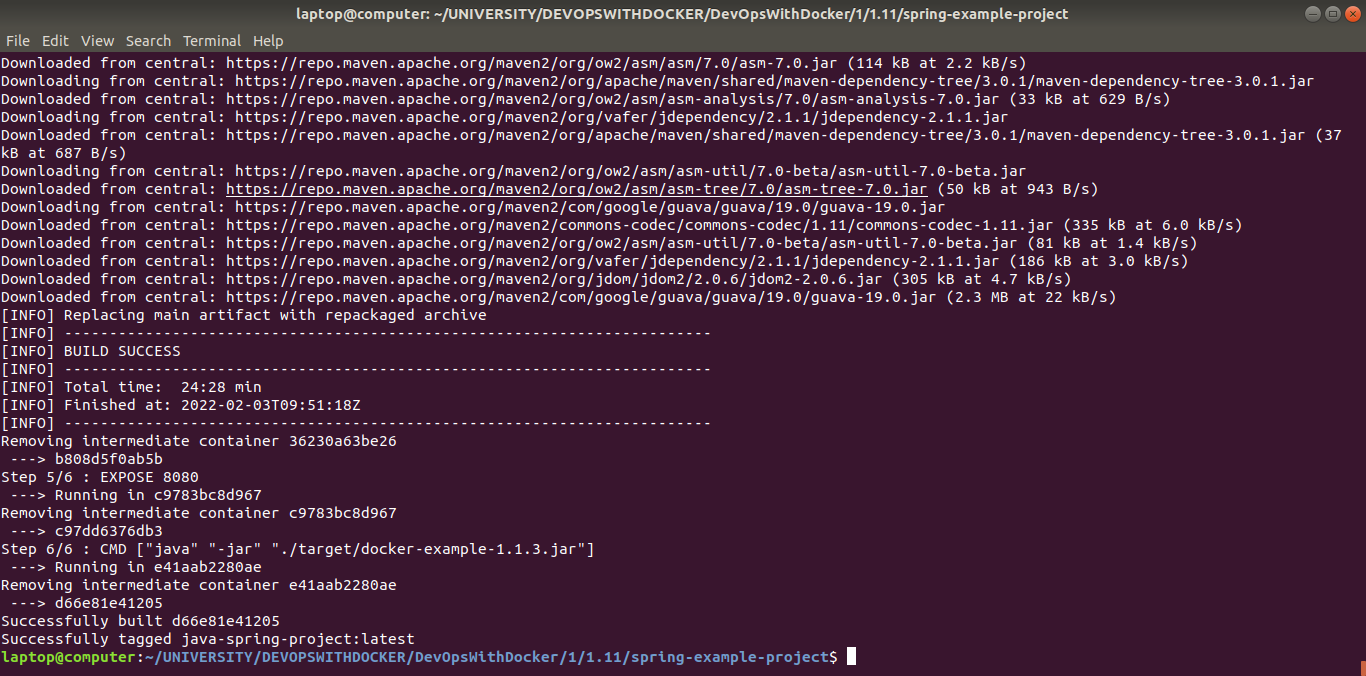
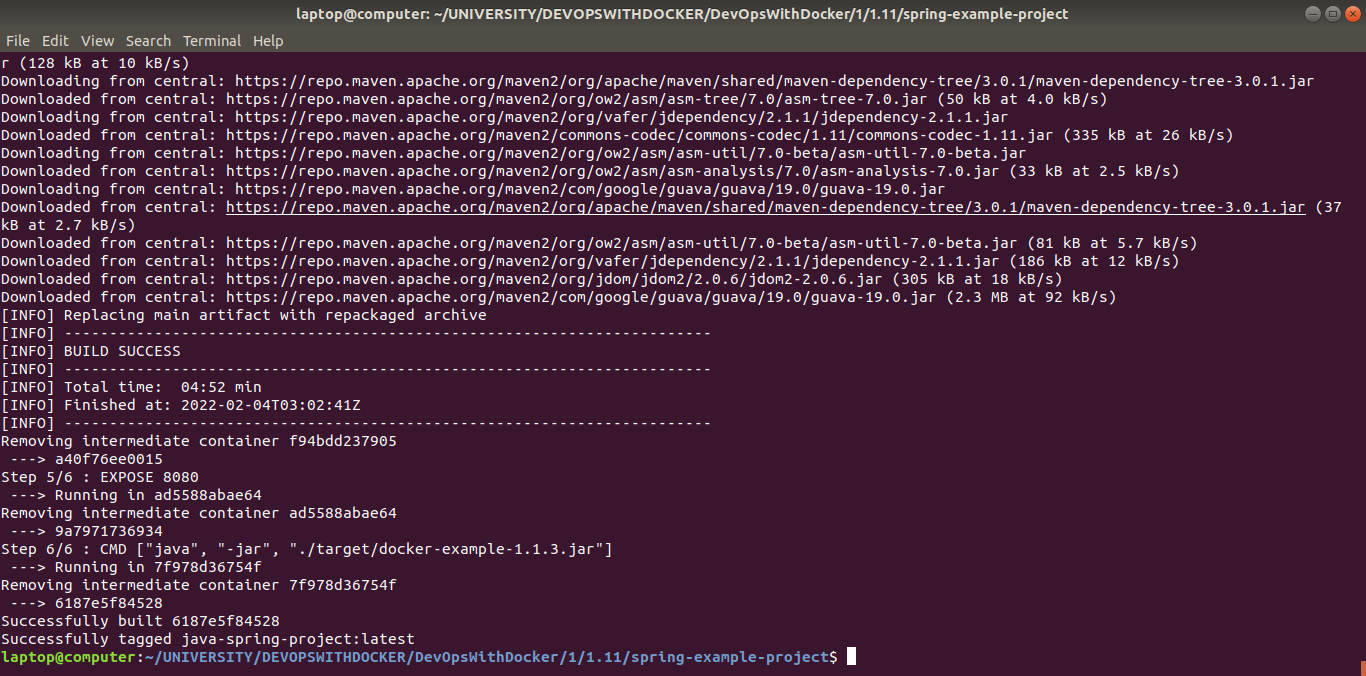
1.11

diff --git a/1/1.11/README.md b/1/1.11/README.md
@@ -4,4 +4,4 @@ A link to Docker Hub for amd64/openjdk
 
 https://hub.docker.com/r/amd64/openjdk/
 
-![alt text](https://github.com/jylhakos/DevOpsWithDocker/blob/main/1/1.11/1.11.png?raw=true)
+![alt text](https://github.com/jylhakos/DevOpsWithDocker/blob/main/1/1.11/java-spring-project.png?raw=true)
